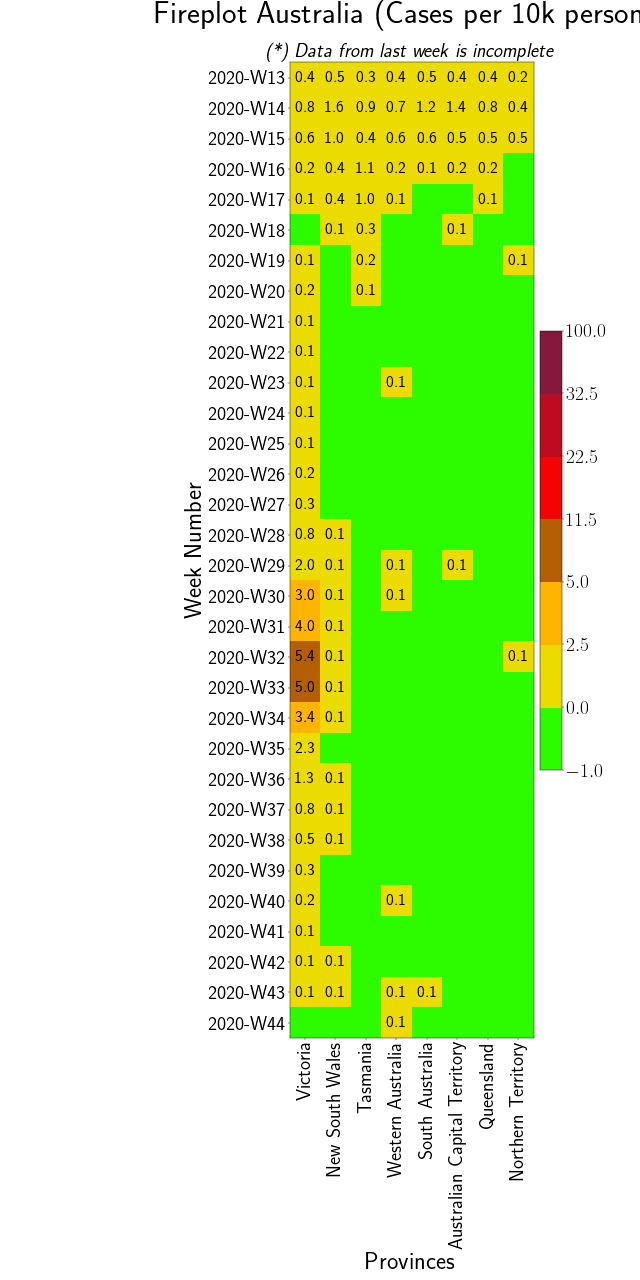
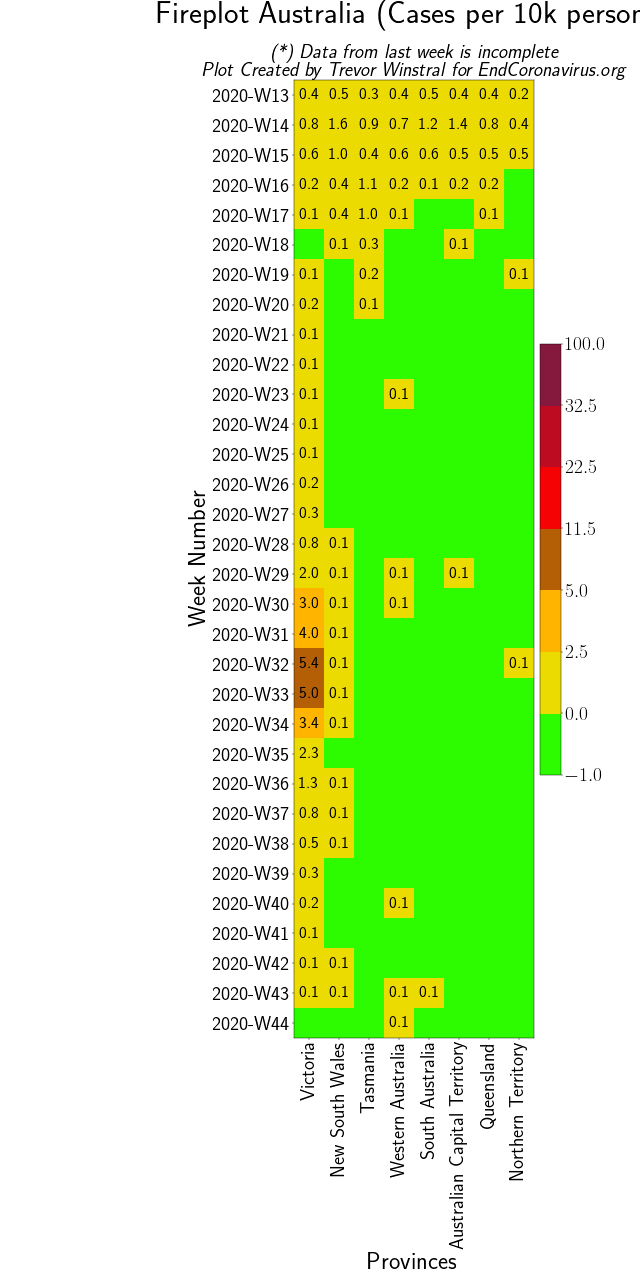
added credit to myself in images, adjusted readmes

diff --git a/Figures/README.md b/Figures/README.md
@@ -1,6 +1,6 @@
 # Index for Images
 ![Fireplotting](https://github.com/TrevorWinstral/Fireplots/workflows/Fireplotting/badge.svg) \
-Repository to generate fireplots every week for ECV. Click [here](https://TrevorWinstral.github.io/Fireplots) to get list of links to raw files. Click the link to jump to the image. \
+Repository to generate fireplots every week for ECV. Click [here](https://TrevorWinstral.github.io/Fireplots) to get list of links to raw files, [here] for daily updated files. Click the link to jump to the image. \
 [Australian Provinces](#australia) \
 [Brazilian States](#brazil) \
 [Czechia](#czechia) \

diff --git a/README.md b/README.md
@@ -1,5 +1,5 @@
 # Fireplots
-Repository to generate fireplots every day for ECV ([here](https://www.endcoronavirus.org/fireplots)). Go [here](/Fireplots/Figures) to browse the images.
+Repository to generate fireplots every day for ECV ([here](https://www.endcoronavirus.org/fireplots)). Go [here](/Fireplots/Uncompressed) to browse the images.
 
 ## Links to Images
 ![Fireplotting](https://github.com/TrevorWinstral/Fireplots/workflows/Fireplotting/badge.svg) \
